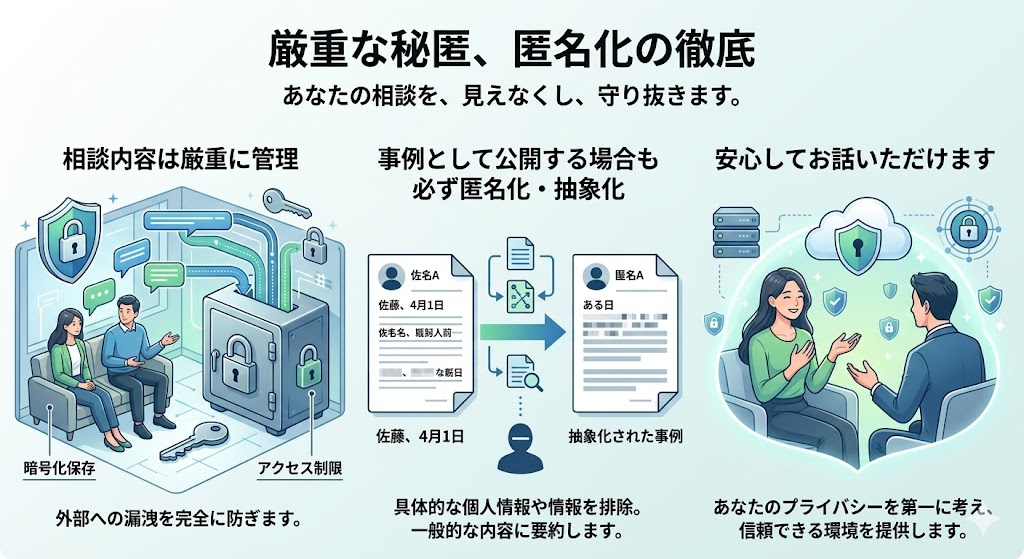
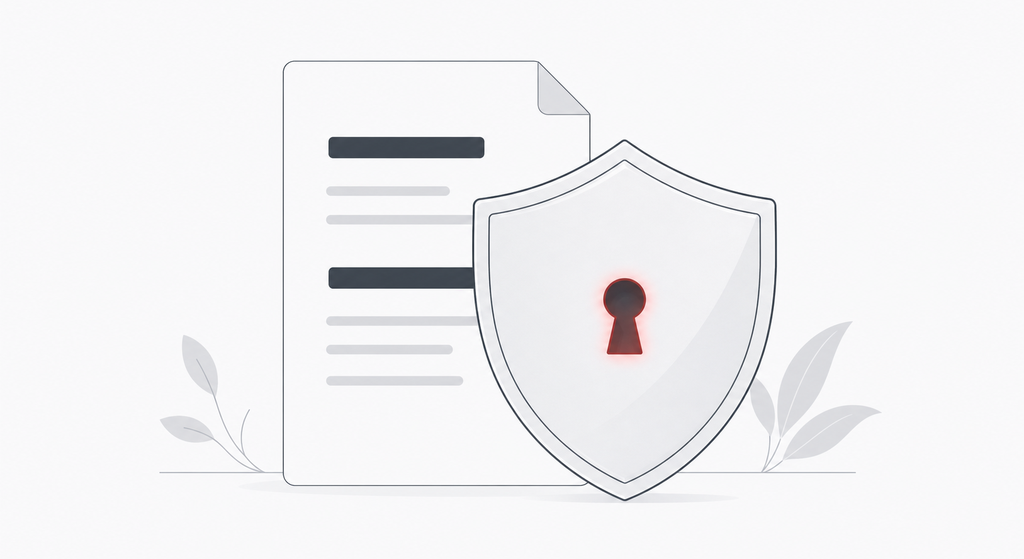
Regenerate all feature images as brand-consistent flat illustrations
Gemini製の文字入りインフォグラフィックを、Codex (ImageGen2) 製の
文字なし・ブランドパレット準拠（白基調＋赤5%以下）のイラストに全面刷新。
1024x559 センタークロップ済み。生成プロンプト仕様書を同梱。

diff --git a/CODEX_IMAGE_REGEN_SPEC.md b/CODEX_IMAGE_REGEN_SPEC.md
@@ -1,0 +1,101 @@
+# feature画像 再生成仕様書（Codex / ImageGen2 用）
+
+**作成：2026-07-13（Fable）／ 実行：Codex (ImageGen2)**
+**対象：** `assets/feature-01.png` `feature-02.png` `feature-solving.png` `feature-04.png` `feature-05.png` `feature-06.png` `feature-07.png`
+
+---
+
+## 方針（現行Gemini画像からの改善点）
+
+現行画像の問題：
+1. **文字が画像に焼き込まれている**（誤字修正・文言変更ができない。「philosophy.」等の英語混入も）
+2. 情報過多のインフォグラフィック調で、LPの説明文と内容が重複
+3. ティール／ブルー系の配色で、ブランド（白基調＋赤≤5%）から外れている
+
+再生成の方針：
+- **画像内テキストは一切入れない**（説明はHTML側にある。テキストなし＝生成失敗も激減する）
+- 1カード1メタファーのシンプルなフラットイラスト
+- ブランドパレット厳守
+
+## 共通スタイルブロック（全プロンプトの末尾に付ける）
+
+```
+Style: clean modern flat vector illustration, thin refined line work,
+generous white space, minimal composition with one clear metaphor.
+Color palette: off-white background #F9FAFB, dark slate ink #1F2937,
+mid gray #4B5563, light gray #E5E7EB. Single red accent #D32F2F used
+sparingly (under 5% of the image area) to highlight the key element.
+Absolutely NO text, NO letters, NO numbers, NO logos anywhere in the image.
+Landscape orientation, wide format. Consistent illustration style across a set.
+```
+
+- 生成サイズ：横長（1536×1024 など）で生成 → **中央基準で 1024×559（比率 1.832:1）にクロップ**して保存
+- ファイル名は現行と同名で `assets/` に上書き（HTML変更不要。キャッシュ対策で `?v=` 付与は別途）
+
+## 各画像プロンプト
+
+### feature-01.png — 25年のAE経験による、伴走型サポート
+```
+Two people sitting side by side at one desk looking at the same laptop
+screen together. The mentor figure gently gestures toward the screen,
+the learner leans in with confidence. Warm, calm, collaborative mood.
+The laptop screen glows softly; a small red cursor arrow on the screen
+is the only red accent.
+```
+
+### feature-02.png — 業務プロセスを、そのまま翻訳
+```
+A horizontal workflow of connected rounded blocks. One block in the
+middle is lifted out and being replaced by a smaller, glowing compact
+block (the AI step), red accent on the replaced block only. A hand
+places the new block like a puzzle piece. Metaphor: translating an
+existing process, swapping one slow step for a faster one.
+```
+
+### feature-solving.png — "わからない"を、共に切り分ける
+```
+A tangled ball of thread on the left being gently pulled and untangled
+into one straight clear line toward the right, guided by two hands from
+opposite sides working together. A small red knot midway marks the
+"found problem" point — the only red accent.
+```
+
+### feature-04.png — プログラミング素養で、一歩先へ
+```
+A chat bubble on the left connected by an elegant curved pipeline to a
+set of small interlocking gears and nodes on the right, suggesting an
+API connection turning conversation into automation. One small red gear
+at the center of the mechanism is the only red accent.
+```
+
+### feature-05.png — 厳重な秘匿、匿名化の徹底
+```
+A document sheet with a few lines of abstract (non-text) redacted bars,
+protected behind a large calm shield with a keyhole. A soft red keyhole
+glow is the only red accent. Mood: safe, quiet, trustworthy — not scary.
+```
+
+### feature-06.png — 10分の作業を、1分に。
+```
+Two clock faces: a large pale one on the left, and a small bright one
+on the right, connected by a single arrow that shrinks as it moves
+right. Under the large clock, a tall messy stack of paper; under the
+small clock, one neat single sheet. The small clock's hand is red —
+the only red accent.
+```
+
+### feature-07.png — ひとつのチャットから、始められる。
+```
+A smartphone standing upright with one single chat bubble rising from
+it. From the bubble, a gentle dotted path of stepping stones leads
+upward and to the right, growing slightly larger with each step.
+The first stepping stone is red — the only red accent.
+```
+
+## 実行手順（Codex側）
+
+1. 各プロンプト＝「本文＋共通スタイルブロック」を連結して ImageGen2 に投入
+2. 7枚を同一セッションで連続生成するとスタイルが揃いやすい
+3. 生成後チェック：文字が入っていないか／赤の面積が過剰でないか／構図の水平
+4. 1024×559 にクロップして `assets/` へ同名保存
+5. index.html の `<img src>` に `?v=4` などを付けてキャッシュを飛ばす（デプロイ時にまとめて）
